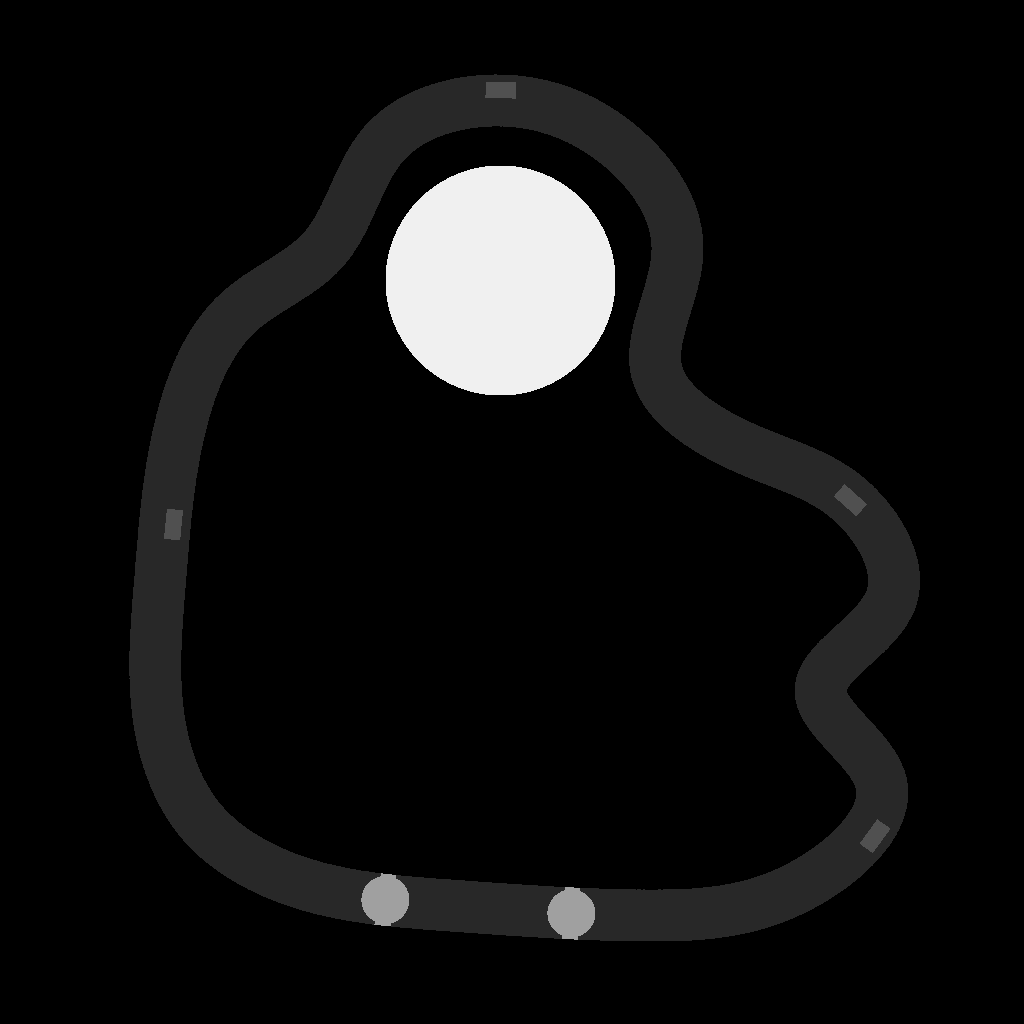
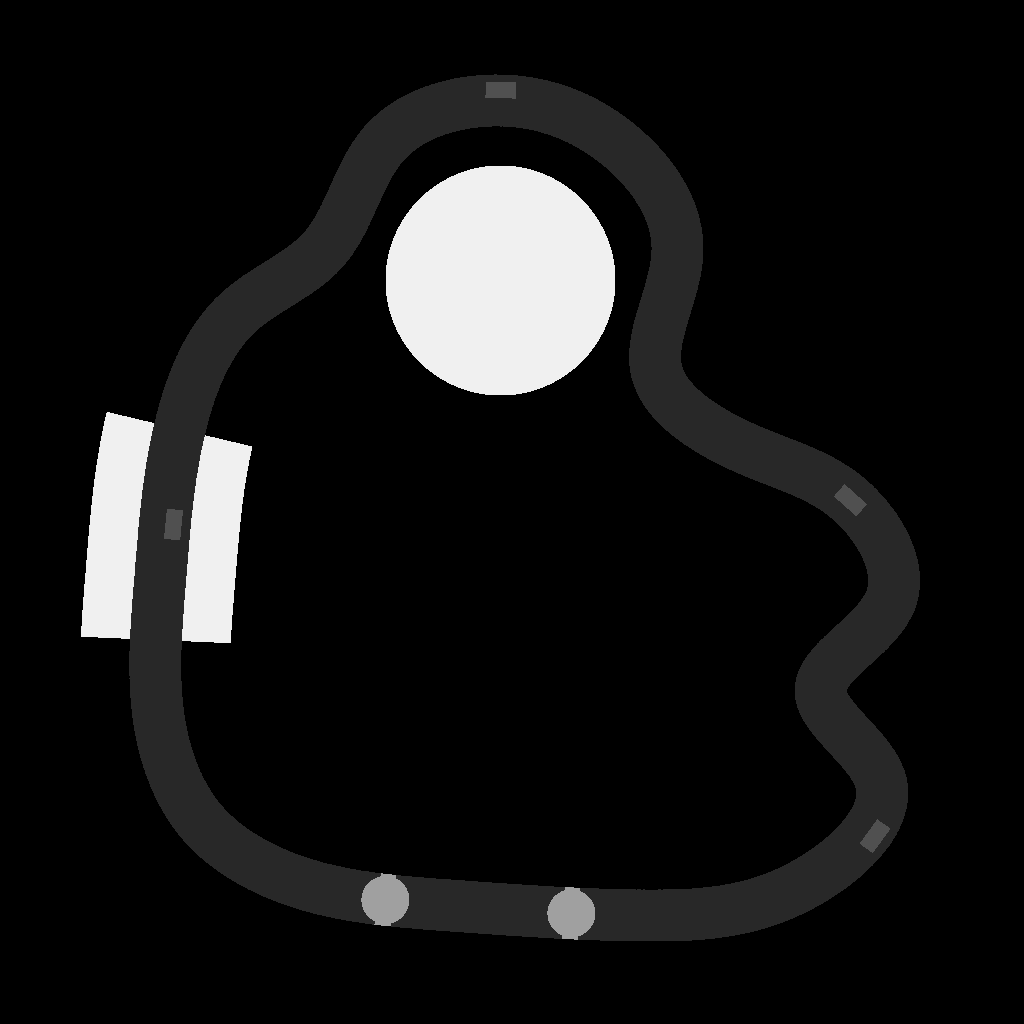
Pink Kart: 808 TEMPLE gets a speaker temple to drive through

Changed region(s): [[0.0625, 0.4062, 0.25, 0.625]]

diff --git a/game/kart/kart.ts b/game/kart/kart.ts
@@ -3,7 +3,7 @@
 // Everything you see comes from the pictures in public/kart/ : swap a picture, the game changes.
 
 import { KartSound } from "./sound";
-import { cobblePixel, fieldPixel, makePsyProps, makePsySky, plankPixel, psyColours, tilePixel, waterPixel, type PsyTheme } from "./psy"; // the psychedelic look
+import { cobblePixel, fieldPixel, makePsyProps, makePsySky, makeTempleWall, plankPixel, psyColours, tilePixel, waterPixel, type PsyTheme } from "./psy"; // the psychedelic look
 import { buzz } from "../buzz"; // the phone buzz on a hit (game/buzz.ts)
 
 // THE MUSIC IN PINK KART: which of your beats plays where (files in public/music). Change a file name to change the song.
@@ -38,6 +38,7 @@ type TrackData = {
   decor?: [number, number, string, number][]; // big things standing around: [x, y, "ship" | "tentacle" | "speaker" | "eq", size]
   beat?: { bpm: number; at: number }; // the map song's tempo and where its first beat is (s): speakers and equalizers move on it
   jumpText?: string; // what it says on a jump (default: JUMP!)
+  tunnel?: number[]; // for every centre point: 1 = inside a building (808 TEMPLE): the sky turns into its walls
   outside?: number; // what's past the edge of the map (3 = void)
   alt?: number[]; // the flying part: how high the karts fly at every centre point (0 = on the ground)
   peaks?: [number, number][]; // mountain tops to dodge while flying
@@ -442,7 +443,7 @@ export class KartGame {
   }
 
   private async load() {
-    const names = ["sky", "sky-void", "props", "itembox", "peak", "ring", "wings", "kart3d-mane", "ghostship", "tentacle", "speaker", "eq", ...ITEMS.map((i) => `item-${i}`)];
+    const names = ["sky", "sky-void", "props", "itembox", "peak", "ring", "wings", "kart3d-mane", "ghostship", "tentacle", "speaker", "eq", "gate", "pillar", ...ITEMS.map((i) => `item-${i}`)];
     const [packs] = await Promise.all([Promise.all(TRACKS.map((t) => this.loadTrack(t.id))), ...names.map((n) => this.loadImg(n))]);
     this.packs = packs;
     for (const it of ITEMS) (this.img[`item-${it}`] as { pkRes?: number }).pkRes = this.img[`item-${it}`].width / 48;
@@ -823,7 +824,7 @@ export class KartGame {
   }
 
   /** the sky, haze and edge colours of one map, turned to that map's hue */
-  private makePal(hue: number, greenPlants = false, psy?: PsyTheme): Pal {
+  private makePal(hue: number, greenPlants = false, psy?: PsyTheme, indoors = false): Pal {
     const M = hueMatrix(hue);
     const sky = (name: string) => {
       const im = this.img[name];
@@ -847,12 +848,13 @@ export class KartGame {
       const A = (c: number[]) => abgr(c[0], c[1], c[2]);
       const sk = this.img["sky"];
       const psySky = makePsySky(psy, sk.width, sk.height); // (the void parts of a map use the same sky)
+      const inside = indoors ? makeTempleWall(sk.width, sk.height) : psySky; // a map with a building: its walls
       return {
         fog: P.fog, vfog: rgbOf(t(abgr(52, 14, 84))), vdeep: rgbOf(t(abgr(6, 2, 14))),
         farLine: A(P.field[2].map((v) => v * 0.45)), farDark: A(P.field[0]),
         lip: t(SLAB_LIP), side: t(SLAB_SIDE), rib: t(SLAB_RIB),
         gDark: A(P.grass[0]), gMid: A(P.grass[1]), gTip: A(P.grass[2]), gBank: A(P.grass[3]),
-        sky: psySky, skyVoid: psySky,
+        sky: psySky, skyVoid: inside,
         props: makePsyProps(psy, this.img["props"], greenPlants),
       };
     }
@@ -899,7 +901,7 @@ export class KartGame {
     this.types = p.types;
     this.mini = p.mini;
     const info = TRACKS[this.trackNo] as { hue: number; greenPlants?: boolean; psy?: PsyTheme };
-    this.pal = p.pal ?? (p.pal = this.makePal(info.hue, !!info.greenPlants, info.psy));
+    this.pal = p.pal ?? (p.pal = this.makePal(info.hue, !!info.greenPlants, info.psy, !!p.track?.tunnel));
     this.zoneF = 0;
   }
 
@@ -1938,7 +1940,7 @@ export class KartGame {
     const camX = me.x - dx * back, camY = me.y - dy * back;
 
     // ---- which zone you're in (0 = the field, 1 = the void): the sky and the haze fade from one to the other
-    const zoneNow = this.track.zone ? this.track.zone[me.idx] ?? 0 : 0;
+    const zoneNow = this.track.tunnel ? this.track.tunnel[me.idx] ?? 0 : this.track.zone ? this.track.zone[me.idx] ?? 0 : 0;
     this.zoneF += (zoneNow - this.zoneF) * 0.04;
     if (Math.abs(zoneNow - this.zoneF) < 0.01) this.zoneF = zoneNow;
     const zf = this.zoneF;
@@ -2188,6 +2190,8 @@ export class KartGame {
     for (const d of this.track.decor ?? []) {
       if (d[2] === "ship") list.push({ img: this.img["ghostship"], sx: 0, sw: 72, sh: 46, x: d[0], y: d[1], k: d[3], lift: -5 + Math.sin(now / 700 + d[0]) * 3, flip: d[0] % 2 === 0, shadow: false });
       else if (d[2] === "speaker") list.push({ img: this.img["speaker"], sx: beat < 0.2 ? 40 : 0, sw: 40, sh: 56, x: d[0], y: d[1], k: d[3], lift: 0, flip: false, shadow: true });
+      else if (d[2] === "gate") list.push({ img: this.img["gate"], sx: beat < 0.2 ? 120 : 0, sw: 120, sh: 96, x: d[0], y: d[1], k: d[3], lift: 0, flip: false, shadow: false });
+      else if (d[2] === "pillar") list.push({ img: this.img["pillar"], sx: beat < 0.2 ? 30 : 0, sw: 30, sh: 90, x: d[0], y: d[1], k: d[3], lift: 0, flip: false, shadow: false });
       else if (d[2] === "eq") {
         // loud right on the beat, then dropping; every tower a little different
         const lvl = Math.max(0, Math.min(7, Math.round(7 * Math.pow(1 - beat, 1.3)) - (d[0] % 3) + (beat > 0.5 && beat < 0.62 ? 2 : 0)));

diff --git a/game/kart/psy.ts b/game/kart/psy.ts
@@ -204,6 +204,44 @@ export function tilePixel(key: string, x: number, y: number): number {
   return (hash(x >> 1, y >> 1) & 1023) < 4 ? abgr([255, 230, 160]) : abgr([base[0] * k, base[1] * k, base[2] * k]);
 }
 
+// ---------------------------------------------------------------- inside 808 TEMPLE: instead of the sky, walls of speakers
+export function makeTempleWall(W: number, H: number): HTMLCanvasElement {
+  const c = document.createElement("canvas");
+  c.width = W;
+  c.height = H;
+  const x = c.getContext("2d")!;
+  x.fillStyle = "#0c0612";
+  x.fillRect(0, 0, W, H);
+  const CW = 32; // one speaker cabinet wide (W is a multiple of it, so it joins up all the way round)
+  for (let col = 0; col < W / CW; col++) {
+    for (let row = 0; row < 4; row++) {
+      const cx = col * CW, cy = H - 8 - (row + 1) * 26 + (col % 2) * 6;
+      x.fillStyle = "#160c1c";
+      x.fillRect(cx + 1, cy, CW - 2, 25);
+      x.fillStyle = "#c8902c";
+      x.fillRect(cx + 1, cy, CW - 2, 1);
+      x.fillRect(cx + 1, cy + 24, CW - 2, 1);
+      // the cone: pink rings around a dark centre
+      const r = 9 - row;
+      for (let dy = -r; dy <= r; dy++) {
+        const hw = Math.round(Math.sqrt(r * r - dy * dy));
+        x.fillStyle = Math.abs(dy) > r - 2 || hw < 3 ? "#3a0c30" : dy % 3 === 0 ? "#ff3cbe" : "#c22890";
+        x.fillRect(cx + CW / 2 - hw, cy + 12 + dy, hw * 2, 1);
+      }
+      x.fillStyle = "#ffc850";
+      x.fillRect(cx + CW / 2 - 1, cy + 11, 2, 2);
+    }
+  }
+  // the ceiling beams fading into the dark at the top, and a gold line along the floor
+  for (let y = 0; y < H * 0.25; y++) {
+    x.fillStyle = `rgba(12,6,18,${1 - y / (H * 0.25)})`;
+    x.fillRect(0, y, W, 1);
+  }
+  x.fillStyle = "#ffc850";
+  x.fillRect(0, H - 6, W, 2);
+  return c;
+}
+
 // ---------------------------------------------------------------- the sky (wraps around once: its width = one full turn)
 export function makePsySky(theme: PsyTheme, W: number, H: number): HTMLCanvasElement {
   const T = THEMES[theme];
